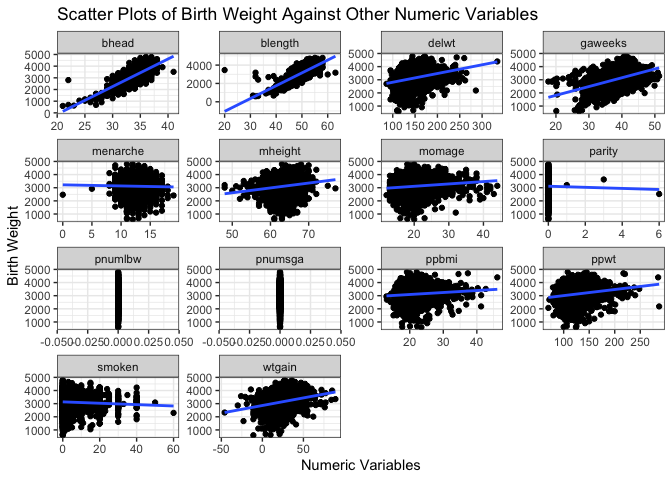
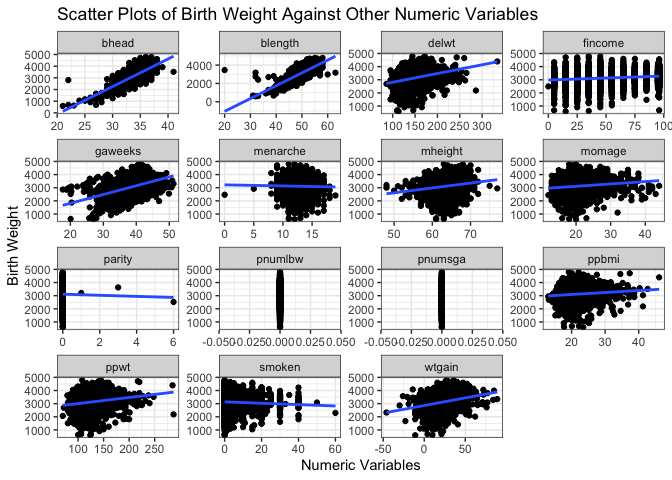
Change fincome to numeric variable. Plots updated accordingly.

diff --git a/p8105_hw6_pz2281.md b/p8105_hw6_pz2281.md
@@ -51,7 +51,7 @@ birth_data %>%
 #clean the data
 
 clean_birth = birth_data %>% 
-  mutate_at(c("babysex", "frace", "malform", "mrace", "fincome"), as.factor) %>% 
+  mutate_at(c("babysex", "frace", "malform", "mrace"), as.factor) %>% 
   mutate_if(is.integer, as.double) 
 #  rename(baby_sex = babysex, baby_head = bhead, baby_length = blength, baby_weight = bweight, m_del)
 ```
@@ -170,7 +170,7 @@ broom::glance(fit_stepwise) %>% knitr::kable()
 
 | r.squared | adj.r.squared |    sigma | statistic | p.value |  df |    logLik |      AIC |      BIC |  deviance | df.residual | nobs |
 |----------:|--------------:|---------:|----------:|--------:|----:|----------:|---------:|---------:|----------:|------------:|-----:|
-| 0.7178222 |       0.71704 | 272.4351 |  917.6995 |       0 |  12 | -30501.85 | 61031.71 | 61120.97 | 321302320 |        4329 | 4342 |
+| 0.7180449 |      0.717198 | 272.3591 |  847.8432 |       0 |  13 | -30500.14 | 61030.28 | 61125.92 | 321048783 |        4328 | 4342 |
 
 ``` r
 broom::tidy(fit_stepwise) %>% knitr::kable()
@@ -178,19 +178,20 @@ broom::tidy(fit_stepwise) %>% knitr::kable()
 
 | term        |      estimate |   std.error |  statistic |   p.value |
 |:------------|--------------:|------------:|-----------:|----------:|
-| (Intercept) | -5669.6215857 | 101.0954691 | -56.081857 | 0.0000000 |
-| bhead       |   131.0913285 |   3.4452391 |  38.049995 | 0.0000000 |
-| blength     |    74.8239419 |   2.0177967 |  37.082002 | 0.0000000 |
-| mrace2      |  -145.5238846 |   9.2254062 | -15.774252 | 0.0000000 |
-| mrace3      |   -79.5498792 |  42.2934092 |  -1.880905 | 0.0600519 |
-| mrace4      |  -107.2366095 |  19.0691206 |  -5.623574 | 0.0000000 |
-| delwt       |     4.0856965 |   0.3920350 |  10.421764 | 0.0000000 |
-| gaweeks     |    11.6674159 |   1.4618126 |   7.981472 | 0.0000000 |
-| smoken      |    -4.8750797 |   0.5855833 |  -8.325169 | 0.0000000 |
-| ppbmi       |    -9.5823694 |   2.5704248 |  -3.727932 | 0.0001955 |
-| babysex2    |    28.3708920 |   8.4577753 |   3.354415 | 0.0008022 |
-| parity      |    94.3583991 |  40.3420618 |   2.338958 | 0.0193828 |
-| ppwt        |    -0.9794526 |   0.5658847 |  -1.730834 | 0.0835526 |
+| (Intercept) | -5683.3155772 | 101.3383179 | -56.082592 | 0.0000000 |
+| bhead       |   130.8391142 |   3.4469781 |  37.957629 | 0.0000000 |
+| blength     |    74.9782841 |   2.0189603 |  37.137078 | 0.0000000 |
+| mrace2      |  -138.8296943 |   9.9081639 | -14.011647 | 0.0000000 |
+| mrace3      |   -76.3487944 |  42.3170414 |  -1.804209 | 0.0712680 |
+| mrace4      |  -101.7777320 |  19.2911129 |  -5.275887 | 0.0000001 |
+| delwt       |     4.1085711 |   0.3921208 |  10.477818 | 0.0000000 |
+| gaweeks     |    11.5806032 |   1.4621587 |   7.920209 | 0.0000000 |
+| smoken      |    -4.8442918 |   0.5856566 |  -8.271557 | 0.0000000 |
+| ppbmi       |    -9.2218922 |   2.5770942 |  -3.578407 | 0.0003495 |
+| babysex2    |    28.5570040 |   8.4560136 |   3.377124 | 0.0007389 |
+| parity      |    95.8951528 |  40.3393656 |   2.377210 | 0.0174874 |
+| ppwt        |    -1.0679341 |   0.5677476 |  -1.881001 | 0.0600388 |
+| fincome     |     0.3229627 |   0.1746923 |   1.848751 | 0.0645619 |
 
 As shown in the table, the model fitted using step-wise selection has
 higher *r*<sup>2</sup> value. So the model I would use as hypothesized
